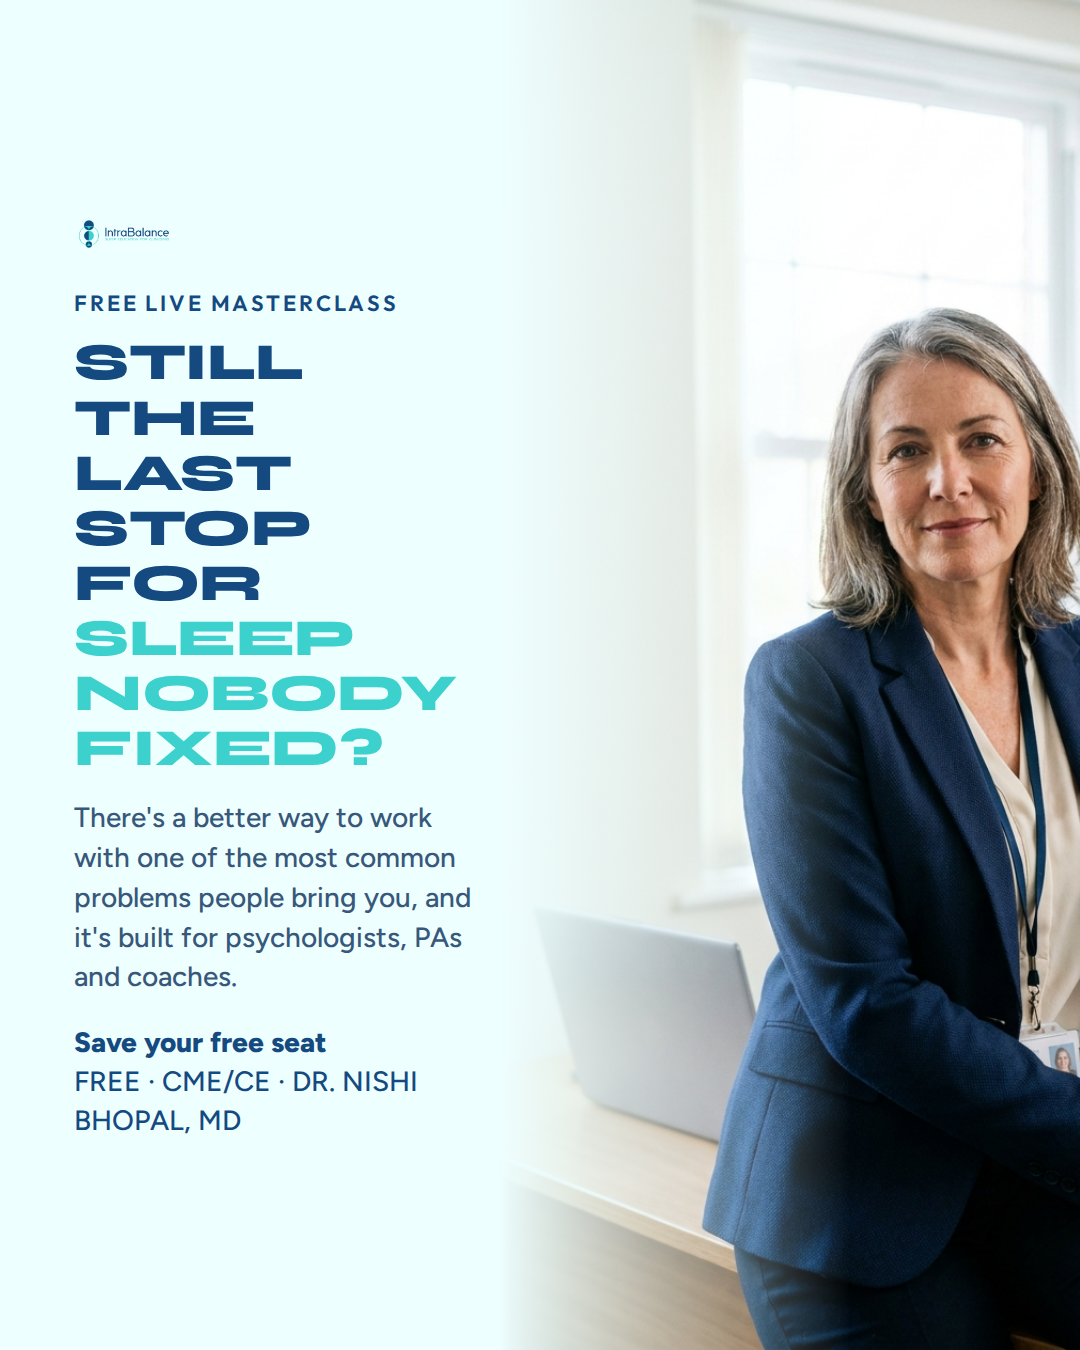
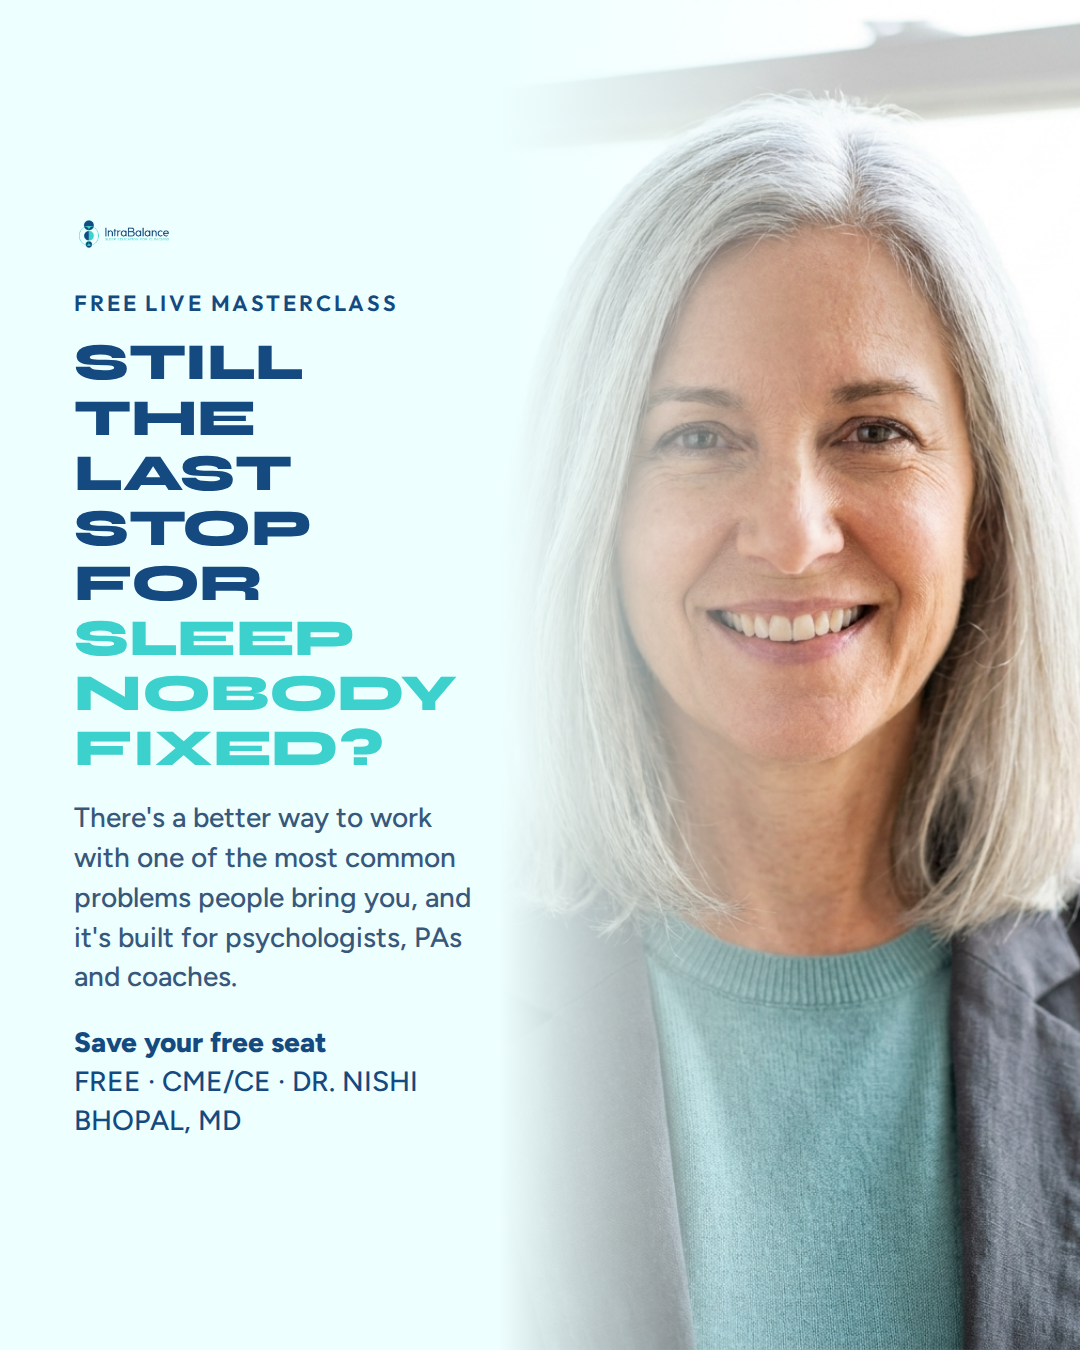
IB ads: regenerate the clinician photos conditioned on the reference ad
The first batch was written from style.txt alone and it showed: mid-shots of
people standing in readable rooms. The reference Sandeep pointed at is nothing
like that - a tight head-and-shoulders portrait in blown-out window light, direct
eye contact, warm open smile, background almost pure white.

So the clinician photograph was cropped out of the Psychiatry Redefined ad and fed
to gemini-3-pro-image as an image reference. One pass matched the treatment. The
written rules never would have; this is the same lesson the PIP style already
records, that reference images are the lever and text alone is noticeably worse.

The prompt states explicitly not to reproduce the person in the reference. The
light, crop, lens and mood are copied; the individual is not. Three different
clinicians, one per lane.

Layout follows from the new sources being centred portraits: photo right and type
left everywhere, matching the reference, instead of swapping sides per lane.

9:16 goes back to the side split. The full-width horizontal band tried earlier to
limit upscaling was worse - a 2:3 portrait cropped to a 1080x806 band lands on the
eyes and nose. A narrow tall column crops to the shoulders like a portrait should,
and the ~1.5x upscale is the cheaper defect.

Claude-Session: https://claude.ai/code/session_014arbqHYAiyN8twXuhBptyo

diff --git a/ads/insomnia-masterclass/src/render_ads.js b/ads/insomnia-masterclass/src/render_ads.js
@@ -232,20 +232,19 @@ function G_nativepost(c) {
 // full-width band but 1.5x for a half-width column, and the face is the first thing
 // to soften. Portrait sources are ~848x1264.
 function H_splitphoto(c, size) {
-  const stacked = size.h / size.w > 1.5;          // 9:16 only
   const left = c.textSide === 'left';
   const img = asset(c.photoFile);
-  const photo = stacked
-    ? `<div style="position:absolute;top:0;left:0;right:0;height:42%;background:url('${img}') center 18%/cover no-repeat;"></div>
-       <div style="position:absolute;top:0;left:0;right:0;height:42%;background:linear-gradient(to bottom, rgba(238,255,255,0) 58%, ${LACC} 98%);"></div>`
-    : `<div style="position:absolute;top:0;bottom:0;${left ? 'right' : 'left'}:0;width:56%;background:url('${img}') center/cover no-repeat;"></div>
-       <div style="position:absolute;top:0;bottom:0;${left ? 'right' : 'left'}:0;width:56%;background:linear-gradient(to ${left ? 'left' : 'right'}, rgba(238,255,255,0) 38%, ${LACC} 96%);"></div>`;
+  const edge = left ? 'right' : 'left';
+  // Side split at every size, including 9:16. A full-width horizontal band was tried
+  // there to limit upscaling, and it was worse: the sources are 2:3 portraits and a
+  // 1080x806 band crops them to an extreme close-up of the eyes and nose. A narrow
+  // tall column crops to shoulders instead, which is what a portrait should do. The
+  // ~1.5x upscale that costs is the cheaper defect.
   return {
     bg: LACC, color: NAVY, pad: 74,
-    pattern: photo,
-    stageStyle: stacked
-      ? `top:42%;left:0;right:0;bottom:0;`
-      : `top:0;bottom:0;${left ? 'left' : 'right'}:0;width:52%;`,
+    pattern: `<div style="position:absolute;top:0;bottom:0;${edge}:0;width:56%;background:url('${img}') center 30%/cover no-repeat;"></div>
+       <div style="position:absolute;top:0;bottom:0;${edge}:0;width:56%;background:linear-gradient(to ${left ? 'left' : 'right'}, rgba(238,255,255,0) 38%, ${LACC} 96%);"></div>`,
+    stageStyle: `top:0;bottom:0;${left ? 'left' : 'right'}:0;width:52%;`,
     body: `
       <img src="${asset('logo_color.png')}" style="height:${u(50)};width:auto;align-self:flex-start;">
       <div data-fit-line style="font-family:'Outfit';font-weight:600;letter-spacing:0.13em;font-size:${u(22)};margin-top:${u(30)};white-space:nowrap;">${esc(c.eyebrow)}</div>

diff --git a/ads/insomnia-masterclass/src/copy.js b/ads/insomnia-masterclass/src/copy.js
@@ -403,9 +403,10 @@ for (const a of AUDIENCES) {
           // a half-width column at a readable size - it shrank to 54% and still
           // overflowed. H's sub already names the audience, so the eyebrow is short.
           eyebrow: 'FREE LIVE MASTERCLASS',
-          // Subject sits on the RIGHT of the physicians and allied frames and on the
-          // LEFT of the NP frame, so the type column swaps side to stay off the face.
-          textSide: a.key === 'nps' ? 'right' : 'left' };
+          // Photo right, type left, matching the reference ad exactly. The sources are
+          // centred head-and-shoulders portraits, so the photo column crops
+          // symmetrically and the side no longer has to vary per lane.
+          textSide: 'left' };
   a.G = { ...a.B, portraitName: OFFER.host, portraitCred: 'Sleep specialist and psychiatrist',
           offerLine: { lead: 'Free ', bold: 'Insomnia Masterclass for ' + a.noun + '.', tail: ' ' + OFFER.dateLong } };
 }

diff --git a/ads/insomnia-masterclass/README.md b/ads/insomnia-masterclass/README.md
@@ -74,10 +74,17 @@ this mechanically; it is not left to whoever edits next remembering.
 ## The clinician photographs
 
 `brand/photo-physicians.png`, `photo-nps.png`, `photo-allied.png` drive concept H.
-They were **generated on 2026-08-21** with `gemini-3-pro-image` via
-`brand-content-images`, from the IntraBalance style written for that repo. They are
-generic clinicians, deliberately: the reference ad this format copies uses a model,
-not the instructor.
+They were **generated on 2026-08-21** with `gemini-3-pro-image`, **conditioned on the
+clinician photograph cropped out of the Psychiatry Redefined ad** in the Ad
+Inspiration folder. That is the step that mattered. A first batch written from
+`style.txt` alone produced mid-shots of people standing in readable rooms; the
+reference is a tight head-and-shoulders portrait in blown-out window light with
+direct eye contact and a warm open smile. Conditioning on the actual image got that
+in one pass, and the written rules never would have.
+
+The prompt says explicitly not to reproduce the person in the reference — the look is
+copied, the individual is not. They are generic clinicians, deliberately: that
+reference ad uses a model, not the instructor.
 
 Two things follow from them being generated:
 
